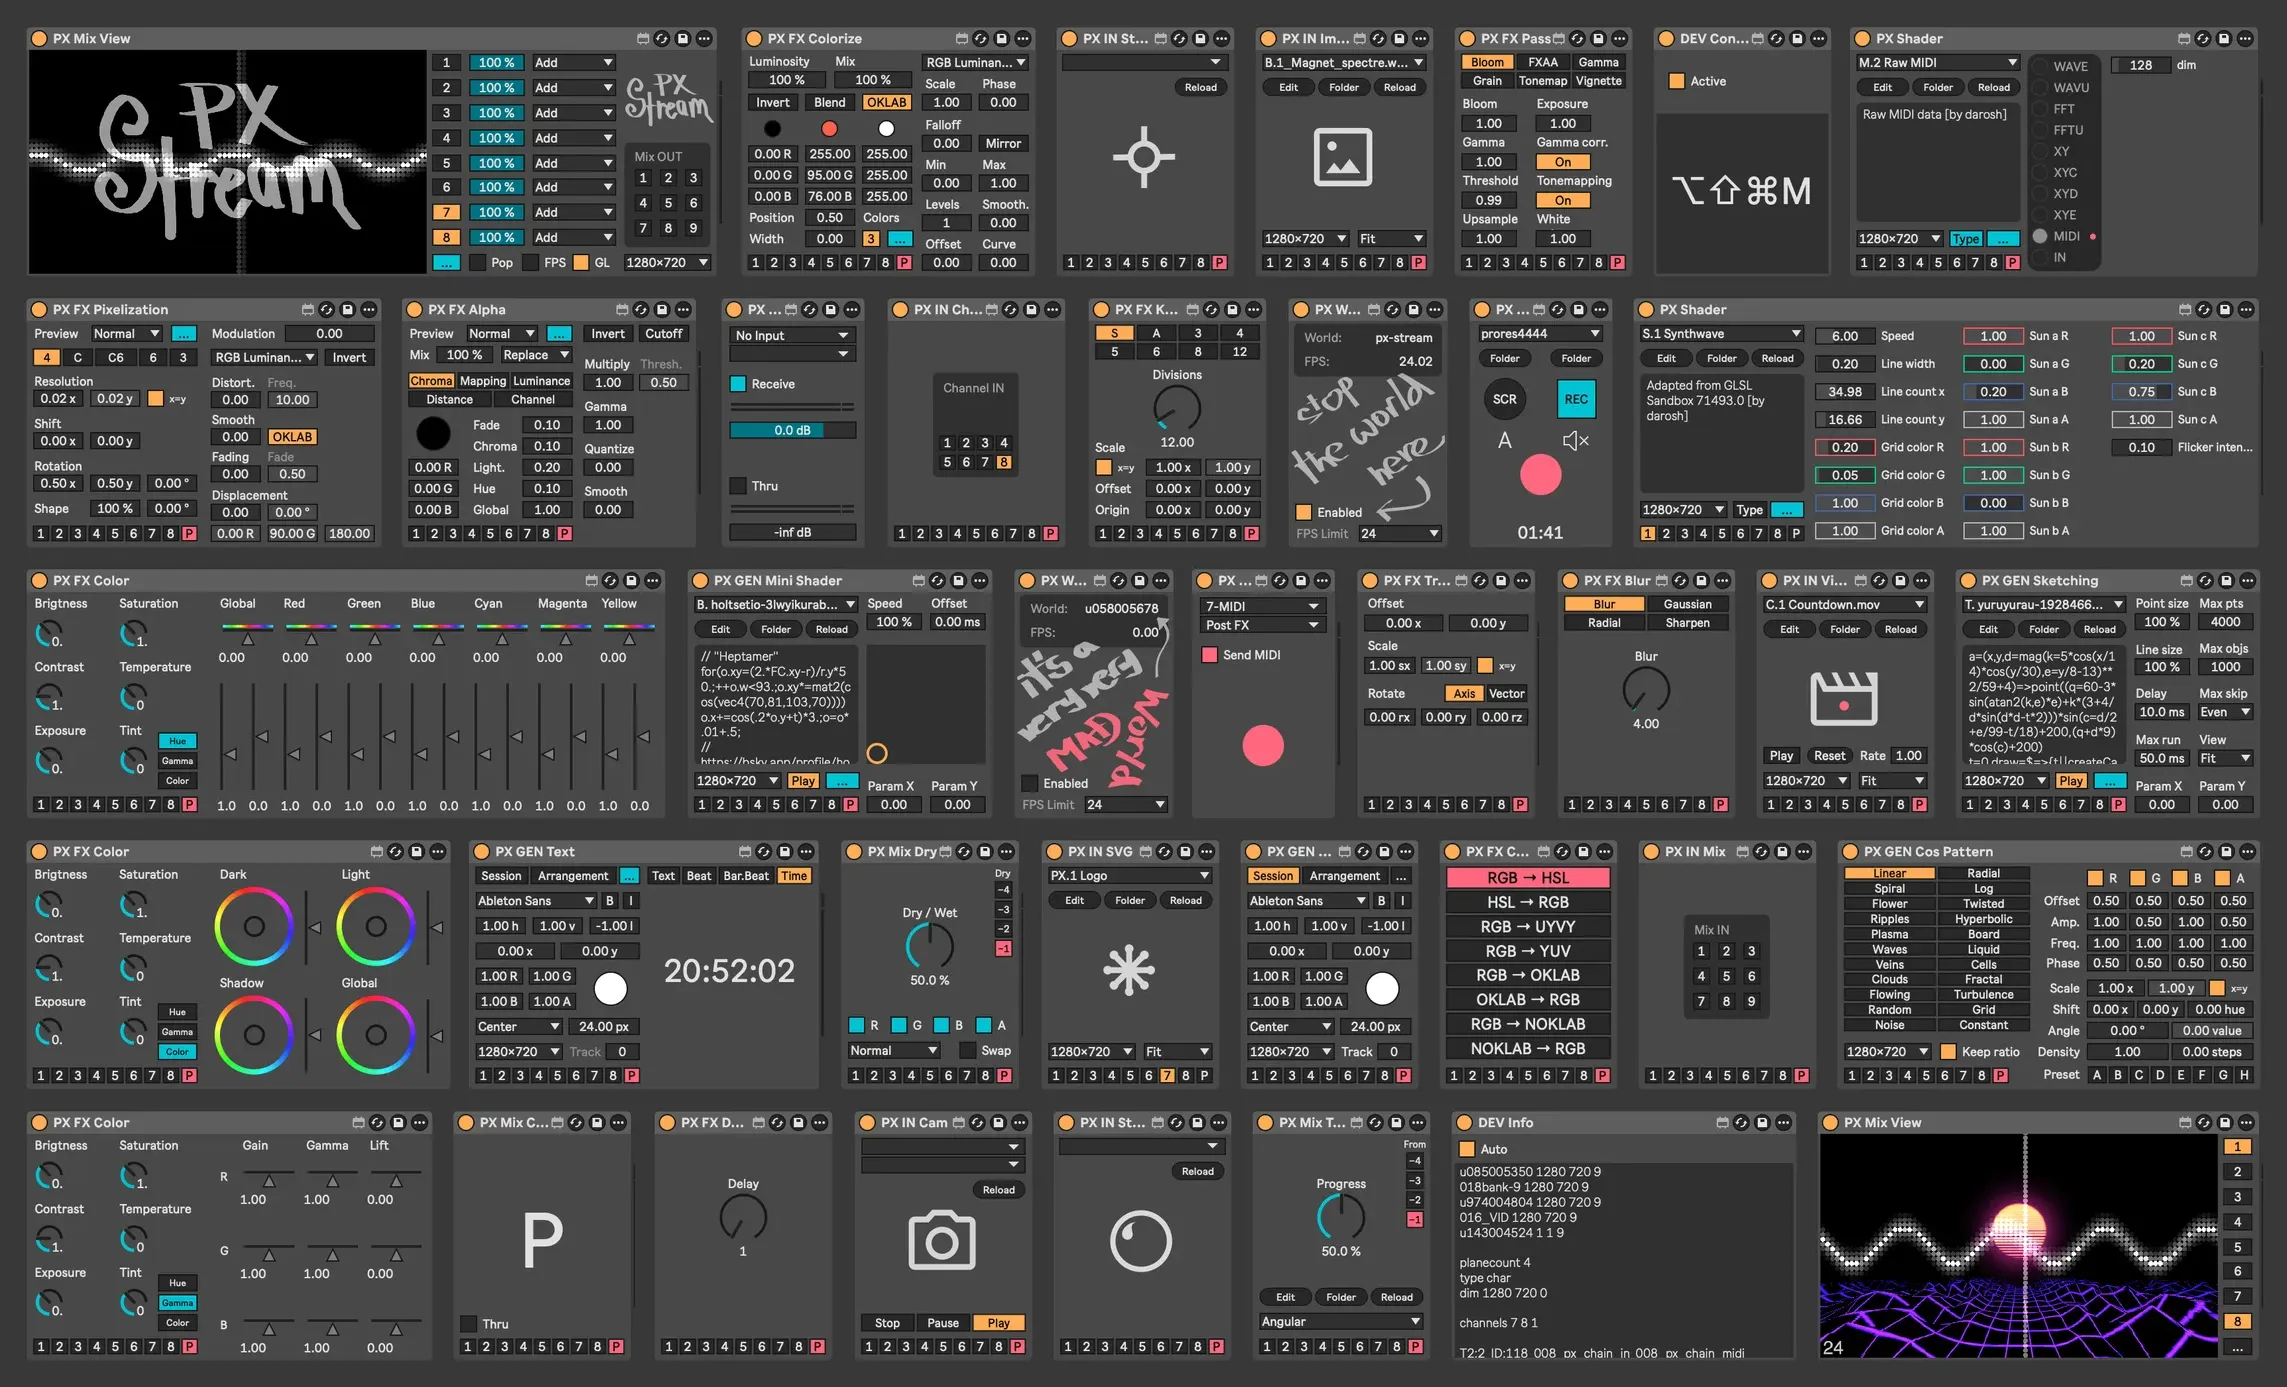
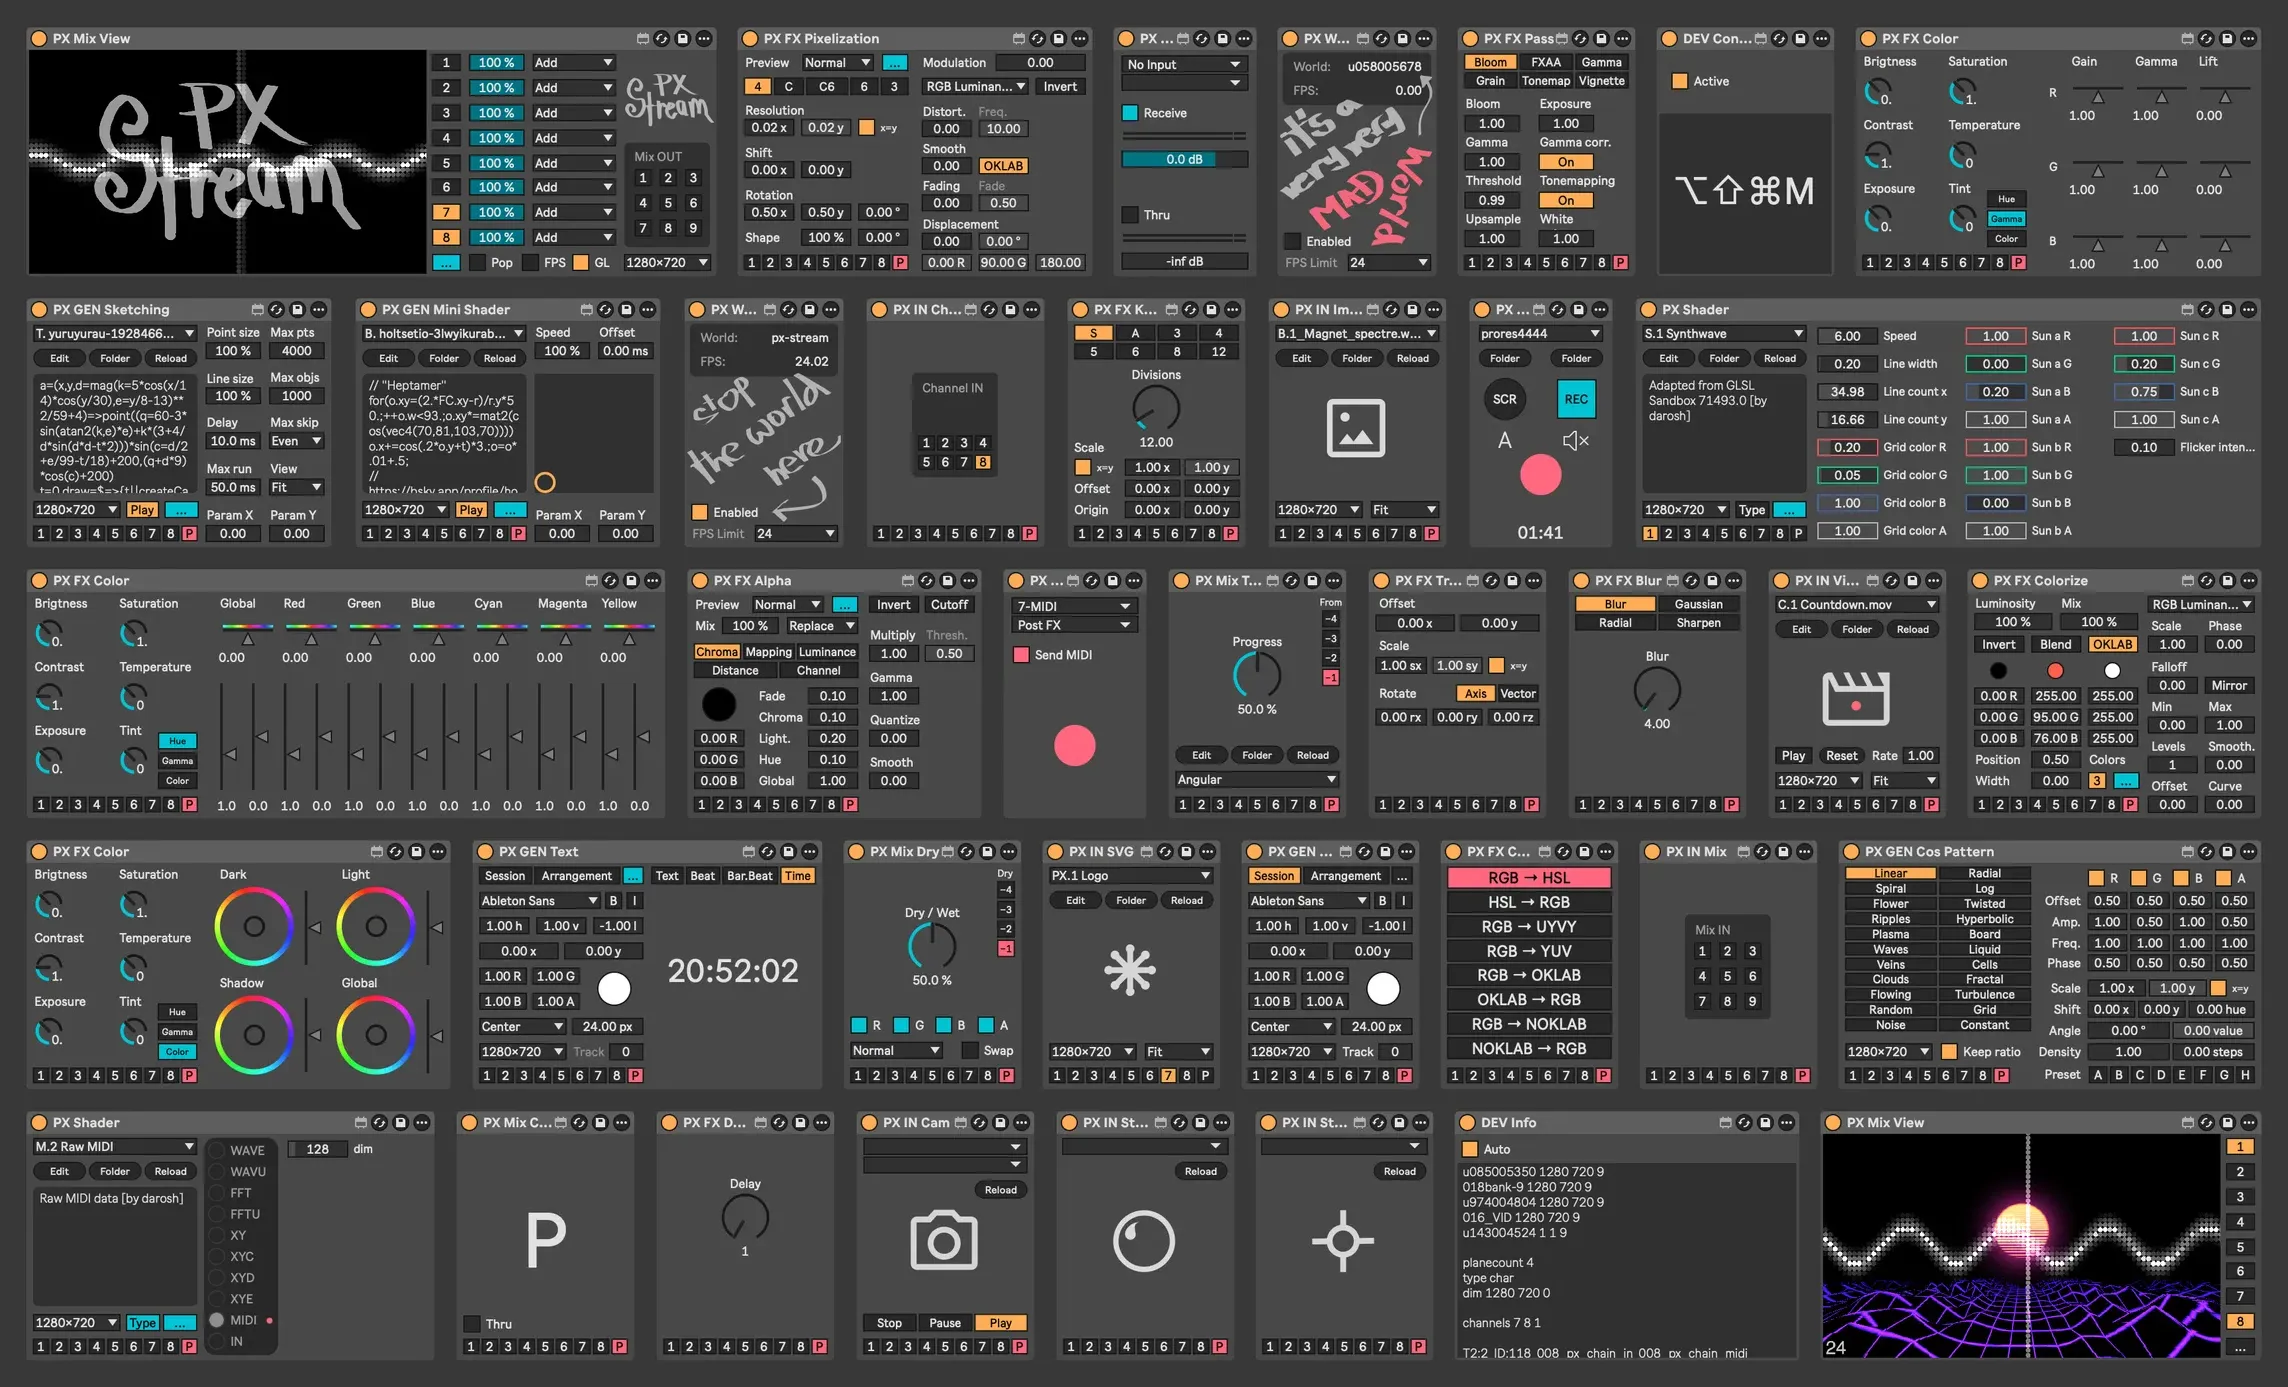
screenshots

diff --git a/scripts/screenshots.guide.conf.js b/scripts/screenshots.guide.conf.js
@@ -6,10 +6,10 @@ export default {
   y0: 1445,
   y1: 385,
   devices: [
-    [1, 'Minimal patch', 248 + 676 + 276 + 2*10],
-    [2, 'Adding FX', 248 + 676 + 276 + 276 + 276 + 4*10],
-    [3, 'Using Mix Dry', 248 + 676 + 276 + 276 + 276 + 276 + 276 + 6*10],
-    [4, 'Syphon streaming', 1054],
+    [1, 'Minimal patch', 248 + 674 + 276 + 2*10],
+    [2, 'Adding FX', 248 + 674 + 276 + 276 + 276 + 4*10],
+    [3, 'Using Mix Dry', 248 + 674 + 276 + 276 + 276 + 276 + 276 + 6*10],
+    [4, 'Syphon streaming', 1050],
   ].map(([src, name, x1, exclude]) => {
     WIDTHS[src] = WIDTHS[src] || 14
     const r = [src, name, WIDTHS[src], x1, exclude]

diff --git a/scripts/screenshots.conf.js b/scripts/screenshots.conf.js
@@ -8,7 +8,7 @@ export default {
   devices: [
     [0, 'PX IN Stream (Spout)', 276],
     [1, 'PX World', 248],
-    [1, 'PX Mix View', 676],
+    [1, 'PX Mix View', 674],
     [1, 'PX Shader', 856 + 3 * 16 * 2],
     [1, 'PX Mix Channel', 276],
     [1, 'PX Mix Dry', 276],
@@ -35,7 +35,7 @@ export default {
     [4, 'PX FX Color (gamma)', 620],
     [4, 'PX FX Color (hue)', 972],
     [4, 'PX FX Colorize', 452],
-    [5, 'PX Mix View (expanded)', 1054],
+    [5, 'PX Mix View (expanded)', 1050],
     [5, 'PX Route MIDI (linked)', 224],
     [5, 'PX Shader (types)', 592 + 16 * 2],
     [5, 'PX GEN Text (expanded)', 536],

diff --git a/README.md b/README.md
@@ -19,29 +19,29 @@
 
 <!-- begin: collage -->
 <div>
-    <a href="#px-mix-view"><img src="./docs/media/devices/PX_Mix_View_(expanded).webp" title="PX Mix View" width="253"/></a>
-    <a href="#fx-colorize"><img src="./docs/media/devices/PX_FX_Colorize.webp" title="FX Colorize" width="109"/></a>
-    <a href="#in-stream"><img src="./docs/media/devices/PX_IN_Stream_(Syphon).webp" title="IN Stream" width="66"/></a>
-    <a href="#in-image"><img src="./docs/media/devices/PX_IN_Image.webp" title="IN Image" width="66"/></a>
+    <a href="#px-mix-view"><img src="./docs/media/devices/PX_Mix_View_(expanded).webp" title="PX Mix View" width="252"/></a>
+    <a href="#fx-pixelization"><img src="./docs/media/devices/PX_FX_Pixelization.webp" title="FX Pixelization" width="131"/></a>
+    <a href="#px-route-audio"><img src="./docs/media/devices/PX_Route_Audio.webp" title="PX Route Audio" width="54"/></a>
+    <a href="#px-world"><img src="./docs/media/devices/PX_World_(mad_world).webp" title="PX World" width="59"/></a>
     <a href="#fx-pass"><img src="./docs/media/devices/PX_FX_Pass.webp" title="FX Pass" width="66"/></a>
     <a href="#dev-console"><img src="./docs/media/devices/DEV_Console.webp" title="DEV Console" width="66"/></a>
-    <a href="#px-shader"><img src="./docs/media/devices/PX_Shader_(types).webp" title="PX Shader" width="150"/></a>
-    <a href="#fx-pixelization"><img src="./docs/media/devices/PX_FX_Pixelization.webp" title="FX Pixelization" width="131"/></a>
-    <a href="#fx-alpha"><img src="./docs/media/devices/PX_FX_Alpha.webp" title="FX Alpha" width="109"/></a>
-    <a href="#px-route-audio"><img src="./docs/media/devices/PX_Route_Audio.webp" title="PX Route Audio" width="54"/></a>
+    <a href="#fx-color"><img src="./docs/media/devices/PX_FX_Color_(gamma).webp" title="FX Color" width="149"/></a>
+    <a href="#gen-sketching"><img src="./docs/media/devices/PX_GEN_Sketching.webp" title="GEN Sketching" width="112"/></a>
+    <a href="#gen-mini-shader"><img src="./docs/media/devices/PX_GEN_Mini_Shader.webp" title="GEN Mini Shader" width="112"/></a>
+    <a href="#px-world"><img src="./docs/media/devices/PX_World.webp" title="PX World" width="59"/></a>
     <a href="#in-channel"><img src="./docs/media/devices/PX_IN_Channel.webp" title="IN Channel" width="66"/></a>
     <a href="#fx-kaleidoscope"><img src="./docs/media/devices/PX_FX_Kaleidoscope.webp" title="FX Kaleidoscope" width="66"/></a>
-    <a href="#px-world"><img src="./docs/media/devices/PX_World.webp" title="PX World" width="60"/></a>
+    <a href="#in-image"><img src="./docs/media/devices/PX_IN_Image.webp" title="IN Image" width="66"/></a>
     <a href="#px-rec"><img src="./docs/media/devices/PX_Rec.webp" title="PX Rec" width="54"/></a>
     <a href="#px-shader"><img src="./docs/media/devices/PX_Shader.webp" title="PX Shader" width="229"/></a>
     <a href="#fx-color"><img src="./docs/media/devices/PX_FX_Color_(hue).webp" title="FX Color" width="234"/></a>
-    <a href="#gen-mini-shader"><img src="./docs/media/devices/PX_GEN_Mini_Shader.webp" title="GEN Mini Shader" width="113"/></a>
-    <a href="#px-world"><img src="./docs/media/devices/PX_World_(mad_world).webp" title="PX World" width="60"/></a>
+    <a href="#fx-alpha"><img src="./docs/media/devices/PX_FX_Alpha.webp" title="FX Alpha" width="108"/></a>
     <a href="#px-route-midi"><img src="./docs/media/devices/PX_Route_MIDI_(linked).webp" title="PX Route MIDI" width="54"/></a>
+    <a href="#px-mix-transition"><img src="./docs/media/devices/PX_Mix_Transition.webp" title="PX Mix Transition" width="66"/></a>
     <a href="#fx-transform"><img src="./docs/media/devices/PX_FX_Transform.webp" title="FX Transform" width="66"/></a>
     <a href="#fx-blur"><img src="./docs/media/devices/PX_FX_Blur.webp" title="FX Blur" width="66"/></a>
     <a href="#in-video"><img src="./docs/media/devices/PX_IN_Video.webp" title="IN Video" width="66"/></a>
-    <a href="#gen-sketching"><img src="./docs/media/devices/PX_GEN_Sketching.webp" title="GEN Sketching" width="113"/></a>
+    <a href="#fx-colorize"><img src="./docs/media/devices/PX_FX_Colorize.webp" title="FX Colorize" width="108"/></a>
     <a href="#fx-color"><img src="./docs/media/devices/PX_FX_Color.webp" title="FX Color" width="156"/></a>
     <a href="#gen-text"><img src="./docs/media/devices/PX_GEN_Text_(expanded).webp" title="GEN Text" width="129"/></a>
     <a href="#px-mix-dry"><img src="./docs/media/devices/PX_Mix_Dry.webp" title="PX Mix Dry" width="66"/></a>
@@ -50,14 +50,14 @@
     <a href="#fx-convert"><img src="./docs/media/devices/PX_FX_Convert.webp" title="FX Convert" width="66"/></a>
     <a href="#in-mix"><img src="./docs/media/devices/PX_IN_Mix.webp" title="IN Mix" width="66"/></a>
     <a href="#gen-cos-pattern"><img src="./docs/media/devices/PX_GEN_Cos_Pattern.webp" title="GEN Cos Pattern" width="155"/></a>
-    <a href="#fx-color"><img src="./docs/media/devices/PX_FX_Color_(gamma).webp" title="FX Color" width="149"/></a>
+    <a href="#px-shader"><img src="./docs/media/devices/PX_Shader_(types).webp" title="PX Shader" width="150"/></a>
     <a href="#px-mix-channel"><img src="./docs/media/devices/PX_Mix_Channel.webp" title="PX Mix Channel" width="66"/></a>
     <a href="#fx-delay"><img src="./docs/media/devices/PX_FX_Delay.webp" title="FX Delay" width="66"/></a>
     <a href="#in-cam"><img src="./docs/media/devices/PX_IN_Cam.webp" title="IN Cam" width="66"/></a>
     <a href="#in-stream"><img src="./docs/media/devices/PX_IN_Stream_(Spout).webp" title="IN Stream" width="66"/></a>
-    <a href="#px-mix-transition"><img src="./docs/media/devices/PX_Mix_Transition.webp" title="PX Mix Transition" width="66"/></a>
+    <a href="#in-stream"><img src="./docs/media/devices/PX_IN_Stream_(Syphon).webp" title="IN Stream" width="66"/></a>
     <a href="#dev-info"><img src="./docs/media/devices/DEV_Info.webp" title="DEV Info" width="127"/></a>
-    <a href="#px-mix-view"><img src="./docs/media/devices/PX_Mix_View.webp" title="PX Mix View" width="163"/></a>
+    <a href="#px-mix-view"><img src="./docs/media/devices/PX_Mix_View.webp" title="PX Mix View" width="162"/></a>
 </div>
 <!-- end: collage -->
 
@@ -124,7 +124,7 @@ Following first 3 guides are available as Live sessions in `/Demo` folder/
 
 ✨ `TIP`  All devices start with PX so you can quickly select device with sequence <kbd>Command+F</kbd> + `px wo` + <kbd>Down</kbd> + <kbd>Enter</kbd>
 
-<img src="./docs/media/guide/Minimal_patch.v1.webp" height="127" title="Minimal patch" />
+<img src="./docs/media/guide/Minimal_patch.webp" height="127" title="Minimal patch" />
 
 <br>
 
@@ -136,7 +136,7 @@ Following first 3 guides are available as Live sessions in `/Demo` folder/
 4. Select **1** in `channel selector in the bottom of the last inserted device
 5. Adjust FX Kaleidoscope parameters as you like
 
-<img src="./docs/media/guide/Adding_FX.v1.webp" height="127" title="Adding FX" />
+<img src="./docs/media/guide/Adding_FX.webp" height="127" title="Adding FX" />
 
 <br>
 
@@ -154,7 +154,7 @@ Following first 3 guides are available as Live sessions in `/Demo` folder/
 
 ✨ `TIP`  Replace the `Mix Dry` device with [PX Mix Transition](#px-mix-transition) and try experimenting with that.
 
-<img src="./docs/media/guide/Using_Mix_Dry.v1.webp" height="127" title="Using Mix Dry" />
+<img src="./docs/media/guide/Using_Mix_Dry.webp" height="127" title="Using Mix Dry" />
 
 <br>
 
@@ -165,7 +165,7 @@ Following first 3 guides are available as Live sessions in `/Demo` folder/
 
 📒 `NOTE` `Mix OUT` has dual purpose, not only it turns the Syphon/Spout output on, but it also can be consumed with the [IN Mix](#in-mix) device for further (post)processing
 
-<img src="./docs/media/guide/Syphon_streaming.v1.webp" height="127" title="Syphon streaming" />
+<img src="./docs/media/guide/Syphon_streaming.webp" height="127" title="Syphon streaming" />
 
 <br>
 

diff --git a/TODO.md b/TODO.md
@@ -3,6 +3,7 @@
 ## Doc
 
 - [ ] doc
+- [ ] sketching win performance
 
 ## Misc
 
@@ -11,10 +12,9 @@
 - [ ] check performance pack
 - [ ] demo track should be [standard compatible](https://www.ableton.com/en/live/compare-editions/) = no operator, no wavetable
 - [ ] re-screenshots mix view -1 -2 px
-- [ ] re-screenshot collapsed
-- [ ] re-screenshot guides
-- [ ] re-save collapsed presets and demos
-- [ ] sketching win performance
+- [x] re-screenshot collapsed
+- [x] re-screenshot guides
+- [x] re-save collapsed presets and demos
 
 ## Licencing
 
